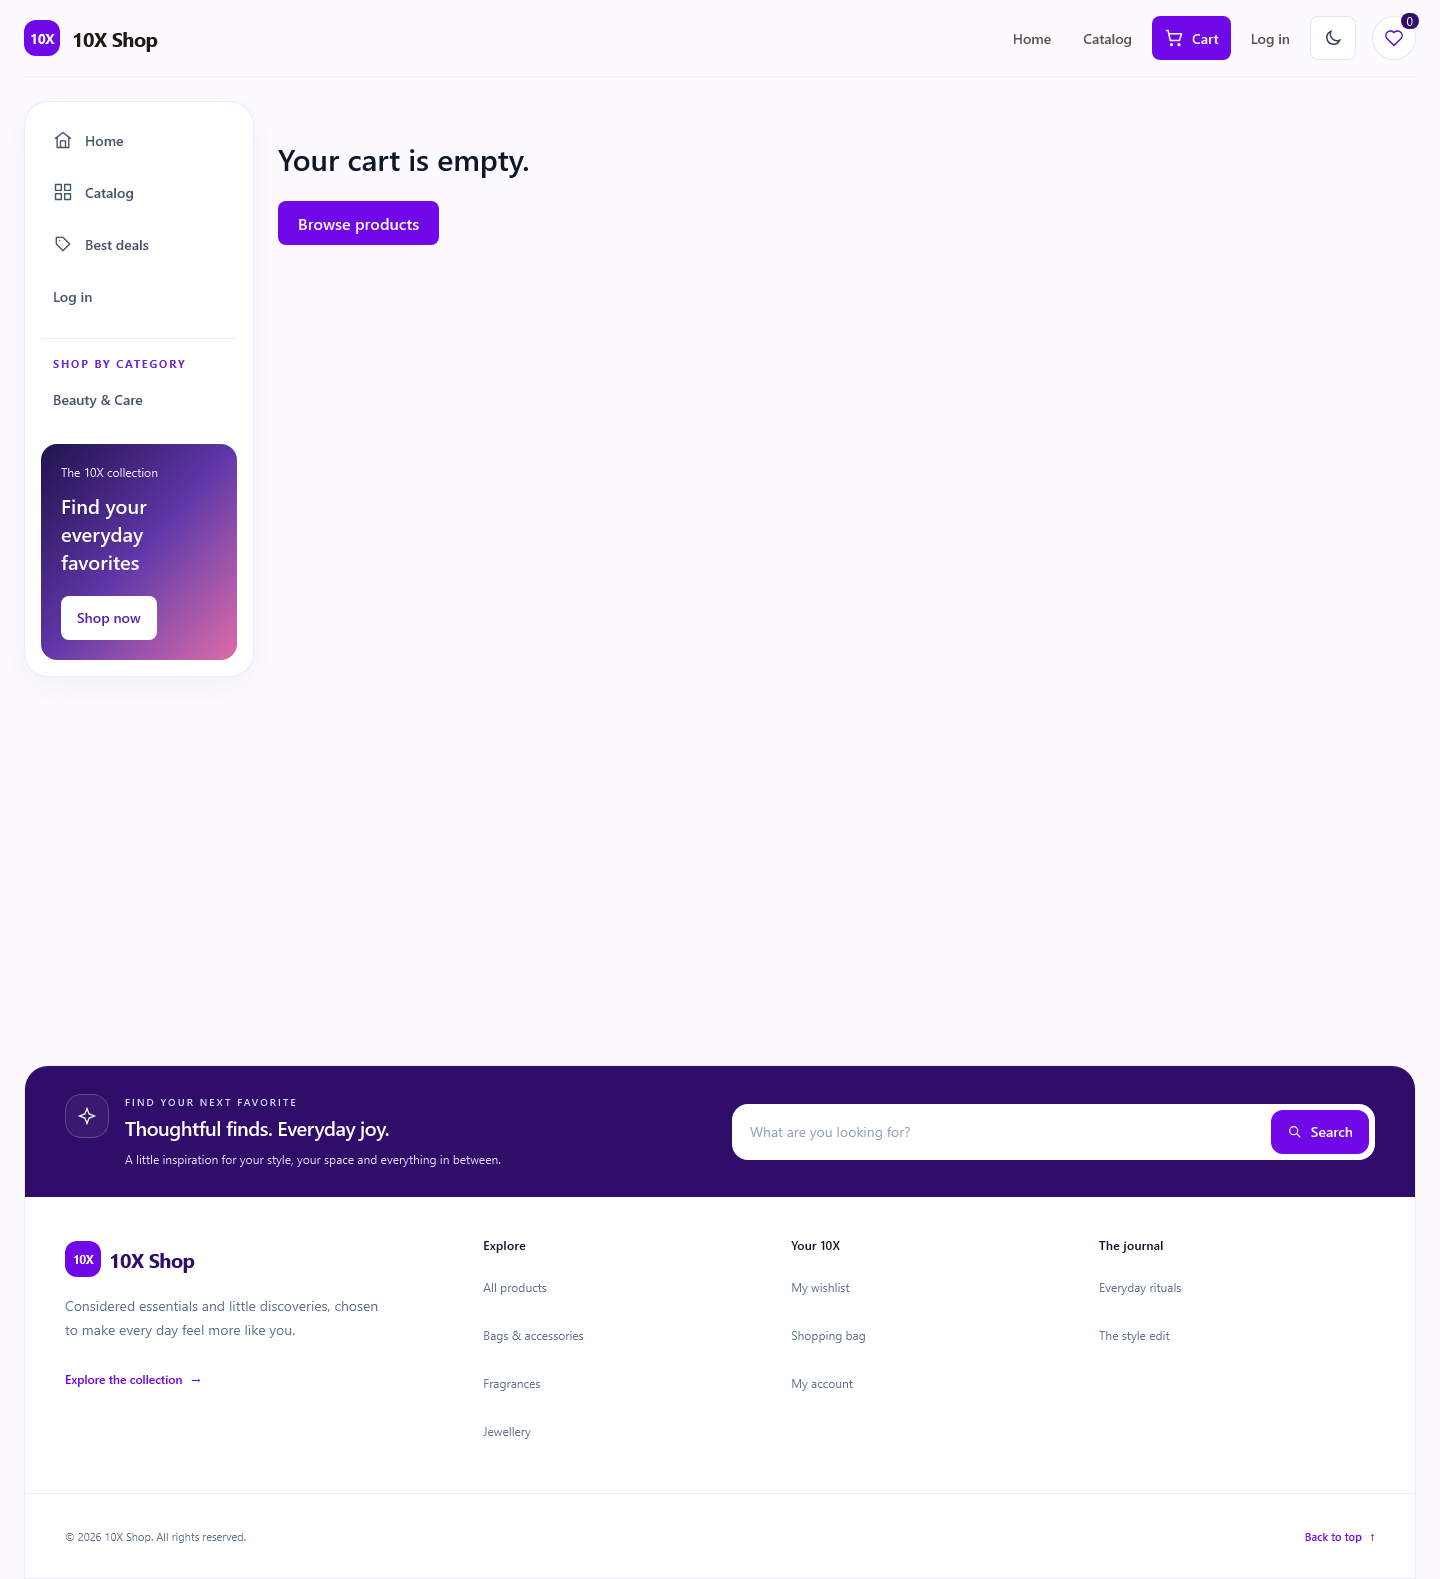
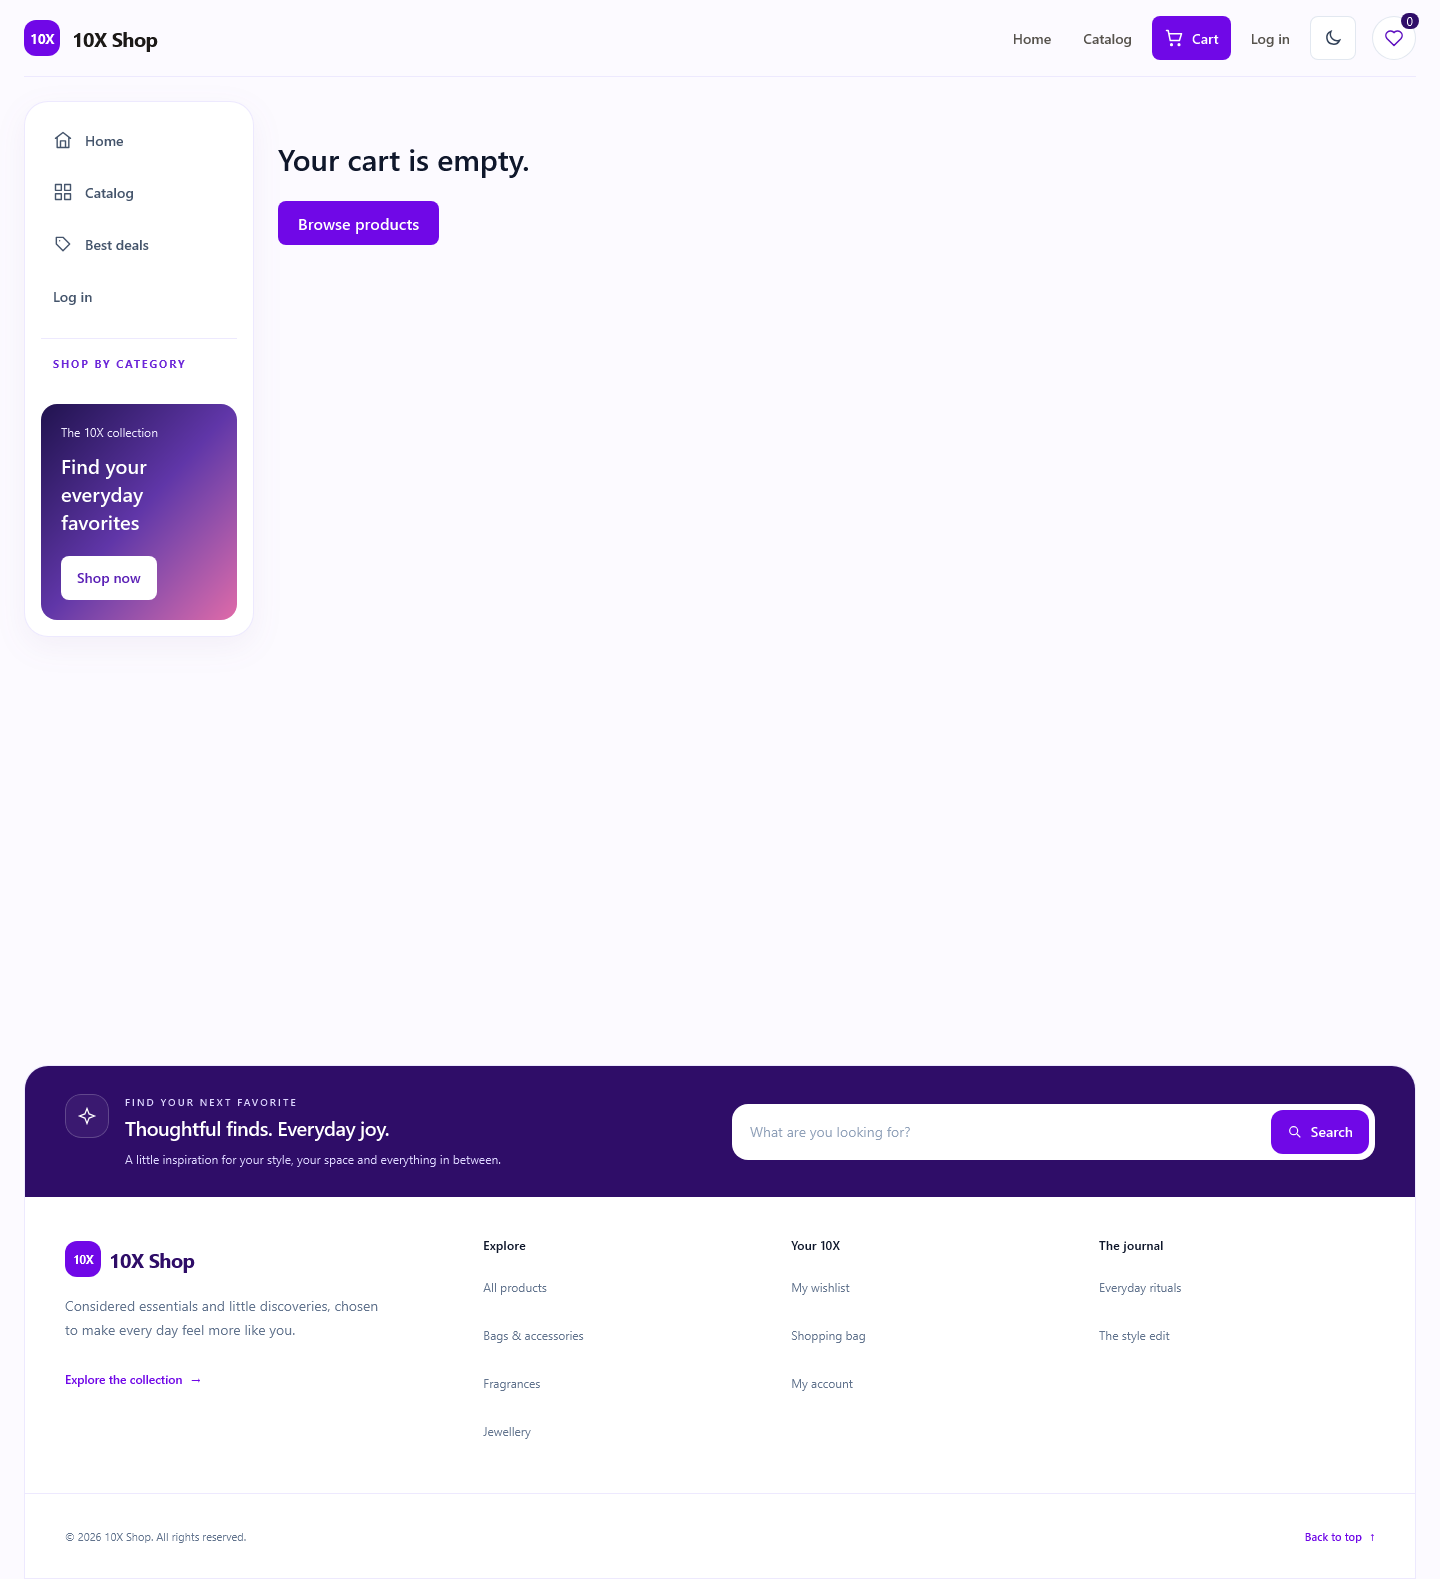
docs: describe the new profile page and refresh compatibility results

Changed region(s): [[0.0312, 0.2483, 0.1875, 0.4345]]

diff --git a/README.md b/README.md
@@ -43,7 +43,7 @@ This is a front-end demo. Login and checkout are local simulations: no real auth
 - **Checkout:** full name, email, phone, address, city, postal code and country (Georgia by default) with exact validation messages; the button is disabled while the order is placed
 - **Orders:** `/orders` and `/orders/:id`, sequential numbers (`10X-00001`), an `Order` class with `create()`, `getStatus()` and `toJSON()`, simulated status (Processing < 1 min, Shipped 1–3 min, Delivered after 3 min) and Reorder
 - **Login:** Formik (`useFormik`) with a Yup validation schema, field errors, loading/disabled state and success feedback
-- **Profile:** edit first name, last name, email and phone; light/dark theme; "Clear local data" (cart, orders, reviews); log out
+- **Profile:** an Overview tab (member since, city, contact details, order/spend/wishlist/review counts, a timeline of recent orders with live status, delivery address, member perks and recent activity — all from the shopper's own data) and a Settings tab (edit first name, last name, email and phone; light/dark theme; "Clear local data"; log out)
 - **UX:** shared toast notifications, light/dark theme saved as `shop_theme`
 - **TypeScript:** generic `ApiClient.get<T>()` with runtime type guards, `ApiError` and `isApiError`, `AsyncState<T>` and `CartAction` discriminated unions, `STORAGE_KEYS as const`, utility types (`Omit`, `Partial`, `Pick`)
 - **Optimization:** route-level code splitting with `React.lazy`/`Suspense`, sized lazy images, deferred hero slides, Lighthouse before/after reports in `docs/lighthouse/`

diff --git a/COMPATIBILITY.md b/COMPATIBILITY.md
@@ -1,6 +1,6 @@
 # Compatibility — 10X Shop
 
-Run started (UTC): 2026-11-05T20:33:25.052Z. Duration: 83.5 seconds. Local production build: http://127.0.0.1:4173. Desktop: 1440×900; Mobile: 390×844. Chromium, Firefox, and WebKit are Playwright browser engines; branded Chrome/Firefox/Safari applications and physical phones were not tested. Firefox Mobile uses viewport and touch emulation only.
+Run started (UTC): 2026-11-05T20:51:20.905Z. Duration: 80.9 seconds. Local production build: http://127.0.0.1:4173. Desktop: 1440×900; Mobile: 390×844. Chromium, Firefox, and WebKit are Playwright browser engines; branded Chrome/Firefox/Safari applications and physical phones were not tested. Firefox Mobile uses viewport and touch emulation only.
 
 Matrix and keyboard tests replace DummyJSON responses with one fixed product (QA Beauty Product), using favicon.svg as its image. Pricing regression tests use six products with different discounts and boundary prices. This verifies the UI and shopping flow but does not verify the live API or real product images. Lighthouse uses real network requests; its results apply to the state displayed during each run. Deployed-site checks, when available, are recorded separately in docs/compat/live-results.json and QA-REPORT.md.
 
